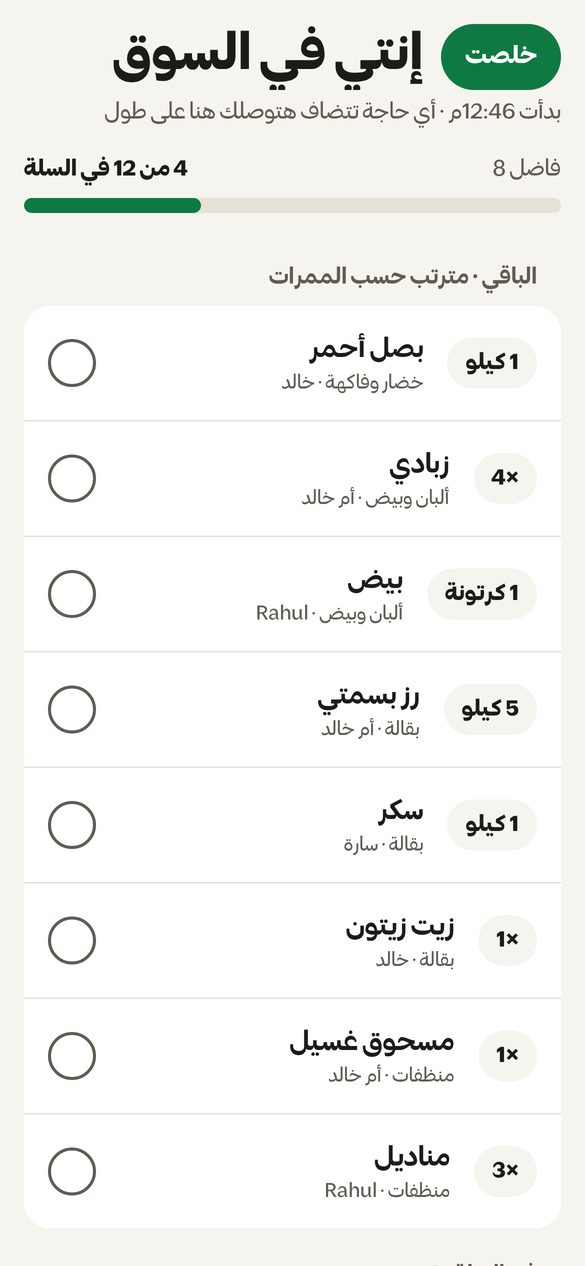
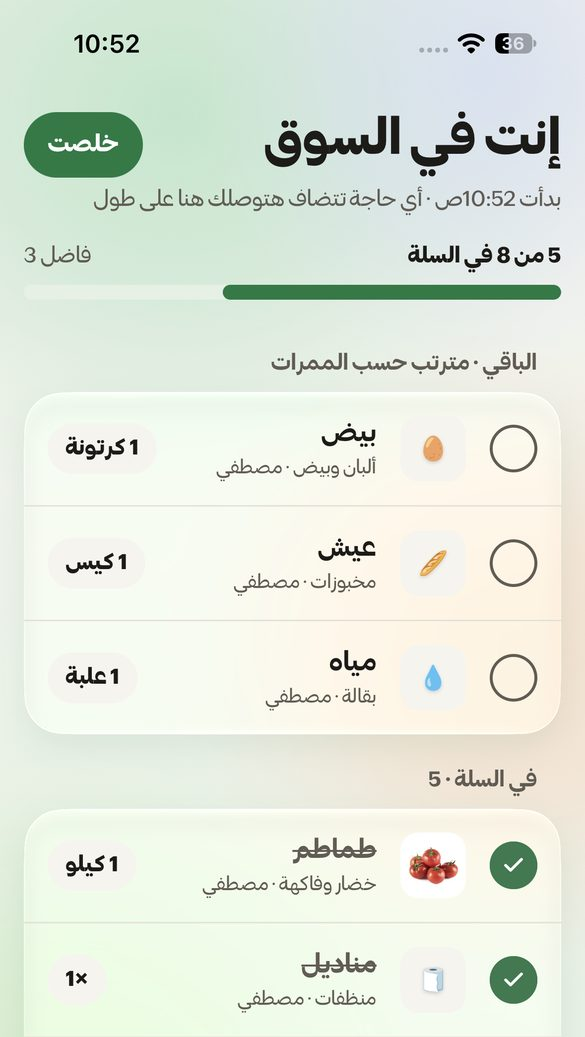
Landing page: new glass-design screenshots in «شكلها من جوه»
Claude-Session: https://claude.ai/code/session_01Do6v7vy4VsMfedSmQ1Nq5Z

diff --git a/frontend/invite/index.html b/frontend/invite/index.html
@@ -8,7 +8,7 @@
     <meta name="description" content="العيلة كلها بتضيف للقائمة وبتشوفها في نفس اللحظة، واللي في السوق يعرف يجيب إيه بالظبط." />
     <meta property="og:title" content="سلّتنا · قائمة مشتريات واحدة للبيت كله" />
     <meta property="og:description" content="العيلة كلها بتضيف للقائمة وبتشوفها في نفس اللحظة. قريبًا على App Store وGoogle Play." />
-    <meta property="og:image" content="https://sallitna.online/img/home.jpg" />
+    <meta property="og:image" content="https://sallitna.online/img/list.jpg" />
     <meta name="theme-color" content="#F6F4EF" />
     <link rel="icon" type="image/png" href="/img/favicon.png" />
     <link rel="apple-touch-icon" href="/img/apple-touch-icon.png" />
@@ -40,7 +40,7 @@
         </div>
       </div>
       <div class="phone hero-phone">
-        <img src="/img/home.jpg" alt="قائمة البيت في سلّتنا: طماطم، بصل أحمر، ليمون، لبن، بيض" width="585" height="1266" />
+        <img src="/img/list.jpg" alt="قائمة البيت في سلّتنا" width="585" height="1037" />
       </div>
     </section>
 
@@ -122,20 +122,20 @@
       <h2>شكلها من جوه</h2>
       <div class="screens">
         <figure>
-          <div class="phone"><img src="/img/home.jpg" alt="القائمة" width="585" height="1266" loading="lazy" /></div>
+          <div class="phone"><img src="/img/lists.jpg" alt="قوايمي: البيت والصحاب" width="585" height="1037" loading="lazy" /></div>
+          <figcaption>قوايمي</figcaption>
+        </figure>
+        <figure>
+          <div class="phone"><img src="/img/list.jpg" alt="قائمة البيت" width="585" height="1037" loading="lazy" /></div>
           <figcaption>القائمة</figcaption>
         </figure>
         <figure>
-          <div class="phone"><img src="/img/shopper.jpg" alt="أنا في السوق" width="585" height="1266" loading="lazy" /></div>
+          <div class="phone"><img src="/img/start.jpg" alt="رايح السوق؟" width="585" height="1037" loading="lazy" /></div>
+          <figcaption>رايح السوق؟</figcaption>
+        </figure>
+        <figure>
+          <div class="phone"><img src="/img/shopper.jpg" alt="أنا في السوق" width="585" height="1037" loading="lazy" /></div>
           <figcaption>أنا في السوق</figcaption>
-        </figure>
-        <figure>
-          <div class="phone"><img src="/img/answer.jpg" alt="سؤال من السوق" width="585" height="1266" loading="lazy" /></div>
-          <figcaption>سؤال من السوق</figcaption>
-        </figure>
-        <figure>
-          <div class="phone"><img src="/img/helper.jpg" alt="المساعد بيشوفها بالإنجليزي" width="585" height="1266" loading="lazy" /></div>
-          <figcaption>المساعد بلغته</figcaption>
         </figure>
       </div>
     </section>

diff --git a/frontend/invite/landing.css b/frontend/invite/landing.css
@@ -60,8 +60,9 @@
 .phone {
   border-radius: 36px;
   padding: 8px;
-  background: var(--ink);
-  box-shadow: 0 18px 40px rgba(29, 27, 24, 0.18);
+  background: rgba(255, 255, 255, 0.7); /* a light glass frame, like the app */
+  border: 1px solid rgba(255, 255, 255, 0.95);
+  box-shadow: 0 18px 40px rgba(14, 122, 66, 0.16);
 }
 
 .phone img {

diff --git a/PROGRESS.md b/PROGRESS.md
@@ -1556,3 +1556,8 @@ picture on the list cards, not the tab bar).
 ## Session 37c — 2026-10-31: Glass bottom sheets, header without a box
 - Bottom sheets (e.g. «طماطم مش موجود؟») are glass; option cards and the outline button are glass (selected card keeps its green border).
 - «إنت في السوق» header is no longer a boxed bar: it sits straight on the backdrop.
+
+## Session 38 — 2026-11-01: Landing page «شكلها من جوه» in the glass design
+- The four screenshots on sallitna.online are new iPhone shots of the glass app: قوايمي, القائمة, رايح السوق؟, أنا في السوق
+  (the Expo gear button and the tab bar cropped out). Old home/answer/helper images removed. The hero uses the list shot.
+- Phone frame is a light glass frame instead of black.
